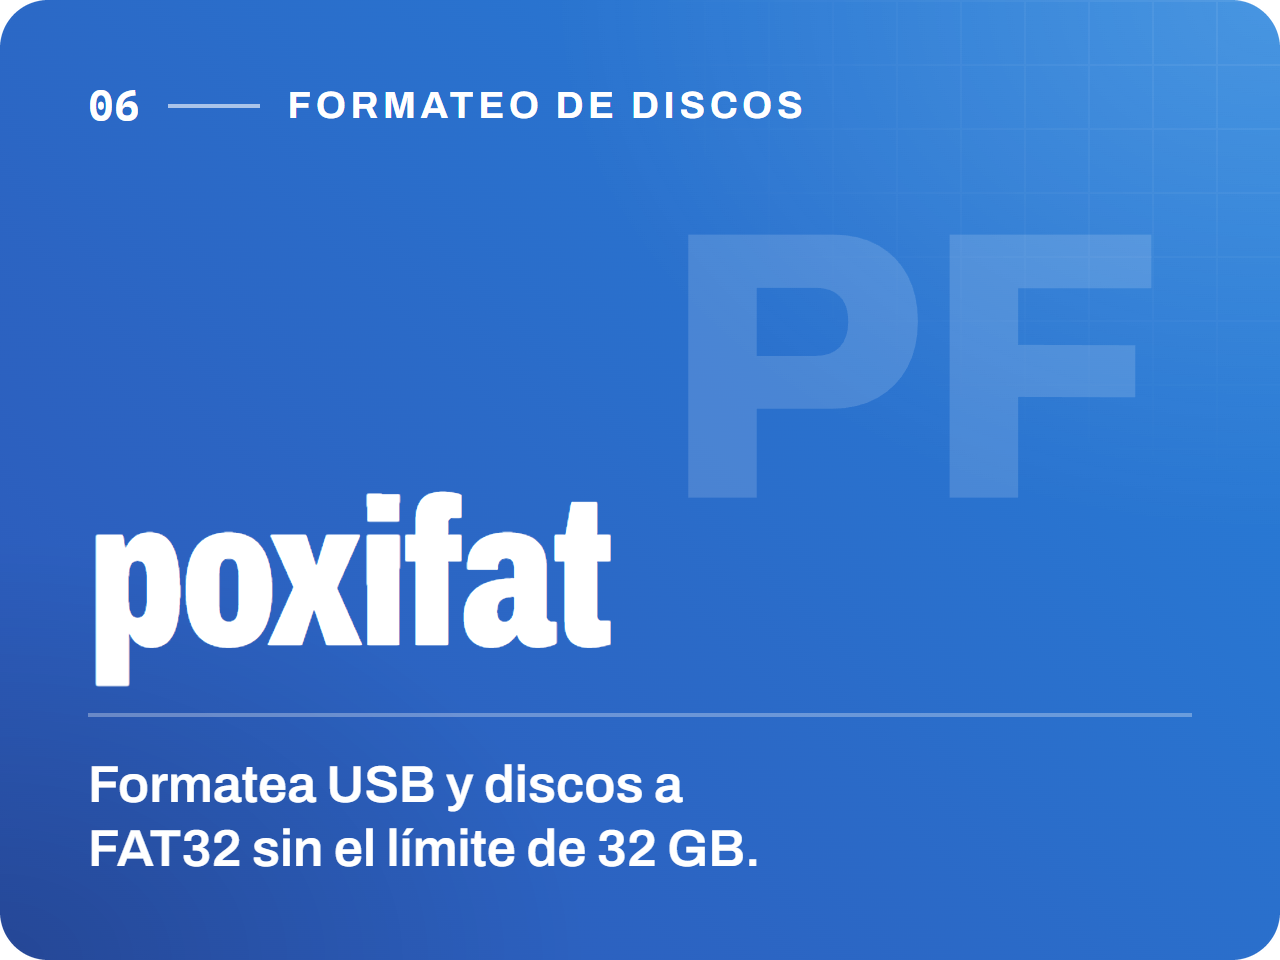
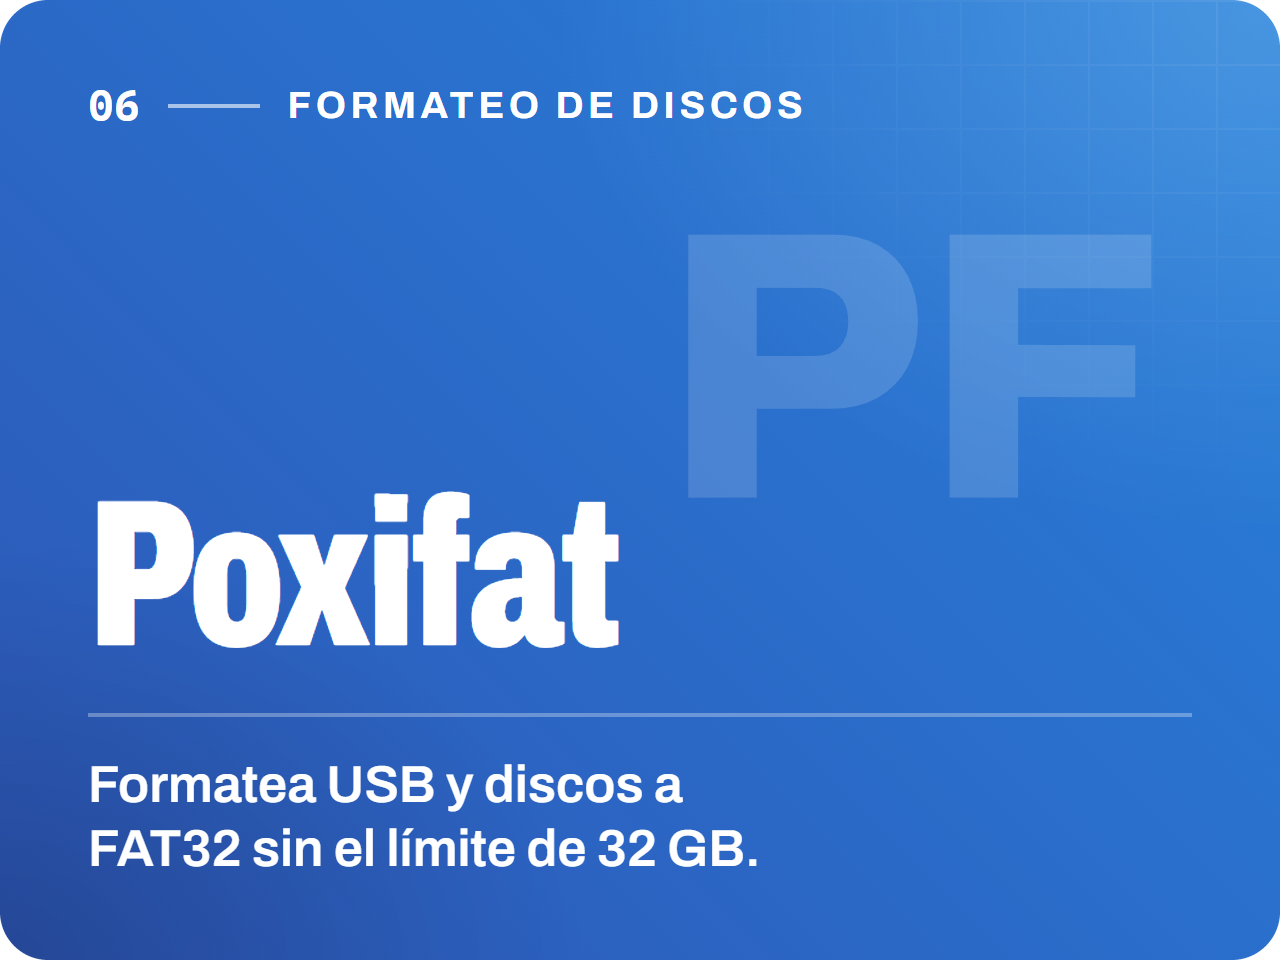
style: tarjeta de Poxifat con mayúscula

Changed region(s): [[0.0625, 0.5, 0.5, 0.7188]]

diff --git a/README.md b/README.md
@@ -12,7 +12,7 @@
 <a href="https://github.com/PoxiiTV/Ruxi-Custom-Rufus"><img src=".github/assets/v3/ruxi-card.png" width="32%" alt="Ruxi Custom Rufus"></a>
 <a href="https://github.com/PoxiiTV/PoxiOptimizer"><img src=".github/assets/v3/poxiopt-card.png" width="32%" alt="PoxiOptimizer"></a>
 <a href="https://github.com/PoxiiTV/HW-Poxi"><img src=".github/assets/v3/hwpoxi-card.png" width="32%" alt="HW-Poxi"></a>
-<a href="https://github.com/PoxiiTV/poxifat"><img src=".github/assets/v3/poxifat-card.png" width="32%" alt="poxifat"></a>
+<a href="https://github.com/PoxiiTV/poxifat"><img src=".github/assets/v3/poxifat-card.png" width="32%" alt="Poxifat"></a>
 <a href="https://github.com/PoxiiTV/Dayly"><img src=".github/assets/v3/dayly-card.png" width="32%" alt="Dayly"></a>
 <a href="https://controldeltaller.es"><img src=".github/assets/v3/cdtaller-card.png" width="32%" alt="CDTaller"></a>
 <a href="https://github.com/PoxiiTV?tab=repositories"><img src=".github/assets/v3/more-card.png" width="32%" alt="Y muchos más: ver todos los repositorios"></a>
